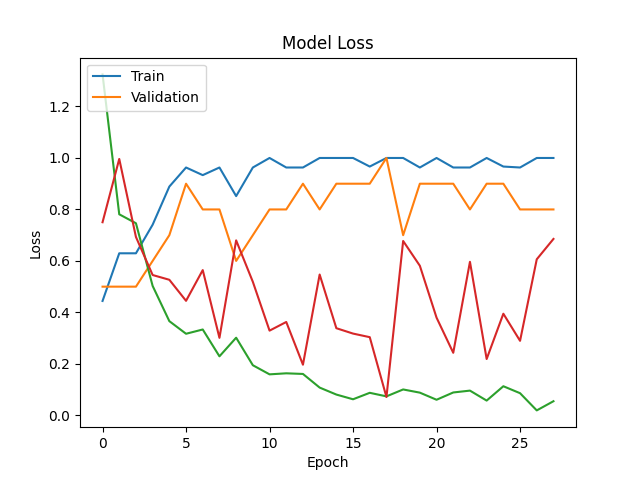
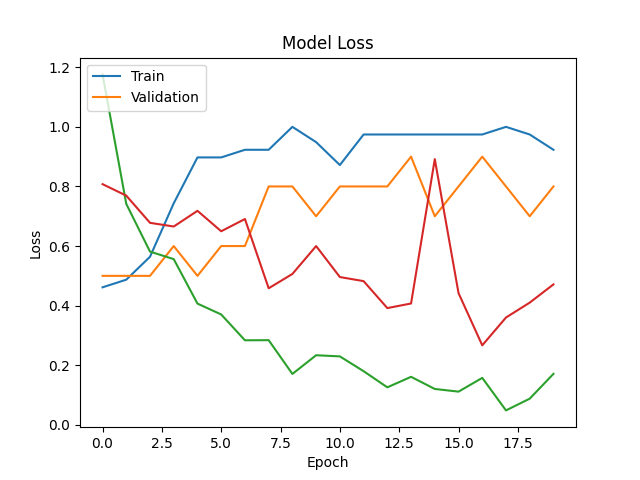
started skeleton for data reading

diff --git a/utils.py b/utils.py
@@ -5,6 +5,7 @@ import cv2
 import csv
 from tensorflow.keras.preprocessing import image
 import datetime
+from datetime import timedelta
 
 def load_and_preprocess_image(image_path, target_size=(224, 224)):
     img = image.load_img(image_path, target_size=target_size)
@@ -57,47 +58,70 @@ def capture_image():
     return image_name
 
 def update_csv(date, duration, csv_path='data.csv'):
-    fieldnames = ['date', 'standing_duration_1', 'standing_duration_2', 'standing_duration_3', 
-                  'standing_duration_4', 'standing_duration_5', 'total_sessions', 'total_standing_minutes']
+    fieldnames = ['date', 'standing_duration', 'total_sessions', 'total_standing_minutes']
+
+    # Initialize an empty list to store rows
+    rows = []
 
     # Check if the file exists and if today's date is already recorded
     data_exists = False
-    rows = []
-    try:
+    if os.path.exists(csv_path):
         with open(csv_path, 'r', newline='') as csvfile:
             reader = csv.DictReader(csvfile)
             for row in reader:
                 if row['date'] == date:
                     data_exists = True
-                    session_count = 0
-                    for i in range(1, 6):
-                        session_key = f'standing_duration_{i}'
-                        if row[session_key] == '':
-                            row[session_key] = str(duration)
-                            break
-                        session_count += 1
-                    row['total_sessions'] = str(session_count)
-                    row['total_standing_minutes'] = str(int(row.get('total_standing_minutes', '0')) + duration)
+                    # Update the standing duration and total standing minutes for the existing date
+                    row['standing_duration'] = str(int(row['standing_duration']) + duration)
+                    row['total_sessions'] = str(int(row['total_sessions']) + 1)
+                    row['total_standing_minutes'] = str(int(row['total_standing_minutes']) + duration)
                 rows.append(row)
 
-    except FileNotFoundError:
-        # File doesn't exist, create it
+    # Create file if it doesn't exist
+    if not os.path.exists(csv_path):
         with open(csv_path, 'w', newline='') as csvfile:
             writer = csv.DictWriter(csvfile, fieldnames=fieldnames)
             writer.writeheader()
 
-    # Update the file
+    # Update the file with modified data or add a new row
     with open(csv_path, 'w', newline='') as csvfile:
         writer = csv.DictWriter(csvfile, fieldnames=fieldnames)
         writer.writeheader()
-        for row in rows:
-            writer.writerow(row)
-
-        # If the date is not found, add a new row
-        if not data_exists:
-            new_row = {field: '' for field in fieldnames}
-            new_row['date'] = date
-            new_row['standing_duration_1'] = str(duration)
-            new_row['total_sessions'] = '1'
-            new_row['total_standing_minutes'] = str(duration)
+        if data_exists:
+            for row in rows:
+                writer.writerow(row)
+        else:
+            new_row = {
+                'date': date,
+                'standing_duration': str(duration),
+                'total_sessions': '1',
+                'total_standing_minutes': str(duration)
+            }
             writer.writerow(new_row)
+
+def read_csv_data(csv_path='data.csv'):
+    """
+    Read CSV data and return a list of dictionaries.
+    """
+    data = []
+    if not os.path.exists(csv_path):
+        return data
+
+    with open(csv_path, 'r', newline='') as csvfile:
+        reader = csv.DictReader(csvfile)
+        for row in reader:
+            data.append(row)
+    return data
+
+def get_weekly_stats(data, week_start):
+    """
+    Get total standing minutes and session count for the specified week.
+    """
+    total_minutes = 0
+    total_sessions = 0
+    for row in data:
+        row_date = datetime.datetime.strptime(row['date'], '%Y-%m-%d').date()
+        if week_start <= row_date < week_start + timedelta(days=7):
+            total_minutes += int(row['total_standing_minutes'])
+            total_sessions += int(row['total_sessions'])
+    return total_minutes, total_sessions

diff --git a/gui.py b/gui.py
@@ -1,0 +1,42 @@
+import datetime
+import tkinter as tk
+from datetime import timedelta
+
+from utils import get_weekly_stats, read_csv_data
+
+def create_gui():
+    window = tk.Tk()
+    window.title("Standing Tracker")
+
+    data = read_csv_data('data.csv')
+    today = datetime.date.today()
+    today_data = next((row for row in data if row['date'] == str(today)), None)
+
+    # Get this week's and last week's stats
+    this_week_start = today - timedelta(days=today.weekday())
+    last_week_start = this_week_start - timedelta(days=7)
+
+    this_week_minutes, this_week_sessions = get_weekly_stats(data, this_week_start)
+    last_week_minutes, _ = get_weekly_stats(data, last_week_start)
+    weekly_difference = this_week_minutes - last_week_minutes
+
+    # Today's stats
+    today_label = tk.Label(window, text=f"Today's Total Standing Duration: {today_data['total_standing_minutes'] if today_data else '0'} minutes")
+    today_label.pack()
+
+    today_sessions_label = tk.Label(window, text=f"Today's Session Count: {today_data['total_sessions'] if today_data else '0'}")
+    today_sessions_label.pack()
+
+    # This week's stats
+    week_label = tk.Label(window, text=f"This Week's Total Standing Duration: {this_week_minutes} minutes")
+    week_label.pack()
+
+    week_sessions_label = tk.Label(window, text=f"This Week's Session Count: {this_week_sessions}")
+    week_sessions_label.pack()
+
+    # Last week's comparison
+    comparison_label = tk.Label(window, text=f"Difference from Last Week: {weekly_difference} minutes")
+    comparison_label.pack()
+
+    window.mainloop()
+

diff --git a/model.py b/model.py
@@ -20,7 +20,7 @@ train_datagen = ImageDataGenerator(
     brightness_range=[0.8, 1.2],
     channel_shift_range=20.0,
     fill_mode='nearest',
-    validation_split=0.3  # Split data into training (80%) and validation (20%)
+    validation_split=0.2  # Split data into training (80%) and validation (20%)
 )
 
 # Prepare training and validation data
@@ -58,7 +58,7 @@ model.compile(optimizer='adam', loss='binary_crossentropy', metrics=['accuracy']
 history = model.fit(
     train_generator,
     steps_per_epoch=train_generator.samples // train_generator.batch_size,
-    epochs=30,
+    epochs=20,
     validation_data=validation_generator,
     validation_steps=validation_generator.samples // validation_generator.batch_size,
     callbacks=[EarlyStopping(monitor='val_loss', patience=10)]

diff --git a/classes.py b/classes.py
@@ -1,6 +1,7 @@
 import os
 import time
 from datetime import datetime
+from gui import create_gui
 from utils import capture_image, classify_image, update_csv
 from model import model
 
@@ -19,7 +20,7 @@ class JobState:
             print(f'You are : {classification}')
 
             if classification != self.last_position and self.last_position == 'Standing':
-                duration = round((current_time - self.last_change_time) / 60) # TODO: Check
+                duration = round((current_time - self.last_change_time) / 60)
                 print(f'Standing duration: {duration} minutes')
                 date = datetime.now().strftime("%Y-%m-%d")
                 update_csv(date, duration)

diff --git a/main.py b/main.py
@@ -3,7 +3,7 @@ import time
 from classes import JobState
 
 job_state = JobState()
-schedule.every(10).minutes.do(job_state.capture_and_process)
+schedule.every(1).minutes.do(job_state.capture_and_process)
 
 while True:
     schedule.run_pending()

diff --git a/README.md b/README.md
@@ -1,10 +1,42 @@
-Very basic AI image recognition to track how many minutes per day spent standing at my desk, in an effort to increase time standing.
+# AI-Powered Standing Desk Tracker
 
-This uses the MobileNetV2 as a base model with only one layer on top of that which is trained from the files in the images/sitting and images/standing directories.
-To make your own, simply replace these images with yourself sitting or standing. Be sure there's the same amount of images in each folder.
+## Introduction
+This project aims to promote a healthier working environment by tracking the amount of time spent standing at a desk. It employs a basic AI image recognition system using MobileNetV2 as the base model, enhanced with a custom-trained layer for distinguishing between sitting and standing postures.
 
-Images where the AI was less sure of its decision are put in the to_sort folder. Manually classify and save these to the appropriate image directories, improving the AI's accuracy.
+## Setup
+### Prerequisites
+- Python 3.x
+- Webcam connected to your computer
 
-While running, it captures an image every minute from a webcam. It counts how many minutes were spent standing and puts them into a csv file.
+### Installation
+1. Clone the repository:
+   ```bash
+   git clone https://github.com/your-repository.git
 
-Processing and displaying the data via this file is yet to come.
+2. Install the required dependencies:
+    ```bash
+    pip install -r requirements.txt
+
+# Custom Training Data
+To train the model with your data:
+
+1. Capture images of yourself in sitting and standing positions.
+2. Place an equal number of images in the **images/sitting** and **images/standing** directories.
+3. Train the model by running the provided training script.
+
+# Usage
+
+After setting up the project and training the model:
+
+1. Start the application. It will capture an image from the webcam every minute.
+2. The AI will classify each image as sitting or standing.
+3. The total standing minutes are logged into a CSV file for analysis.
+
+# Data Sorting
+
+*Images with lower confidence scores are stored in the to_sort folder.
+*Manually classify these images and move them to the appropriate folders to enhance the model's accuracy.
+
+# Note
+
+The project is currently under development, and features for processing and displaying data are forthcoming.
